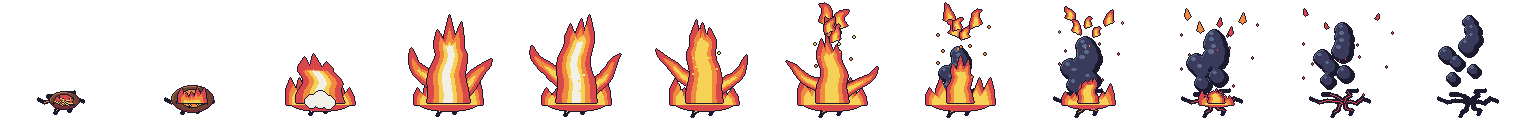
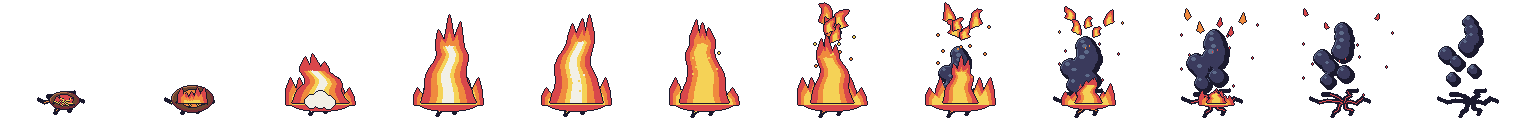
Eruption: one bonfire-shaped pillar, no curling side tongues
The side tongues curled up like horns. The column is now a single mass of
flowing flame, broad at the foot and drawing in toward a crown of licks.

Claude-Session: https://claude.ai/code/session_01J8LgTLVYzThXjNSRVhWqep

diff --git a/tools/sprites/generate.py b/tools/sprites/generate.py
@@ -1711,7 +1711,7 @@ def fire_column(c: Canvas, cx: float, base: float, height: float, hw: float, t: 
         for i in range(9):
             v = i / 8
             y = base - v * height * 0.72
-            w = w0 * (1 - 0.3 * v)
+            w = w0 * (1 - 0.5 * v ** 0.8)  # a bonfire: broad at the foot, drawing in up the flames
             wave = math.sin(v * math.pi * 2.4 - t * math.pi / 2) * hw * 0.2 * v
             left.append((cx - w + wave, y))
             right.append((cx + w + wave, y))
@@ -1764,7 +1764,7 @@ def eruption_crack_frame(k: int) -> Image.Image:
 
 def eruption_frame(k: int) -> Image.Image:
     """Eruption, a one-shot rising from the floor spot (ERUPT_BASE): the ground bulges and glows, cracks splitting,
-    then a pillar of fire bursts up out of a bonfire of wide licking tongues, flames curling off its sides; it peaks,
+    then a pillar of fire bursts up out of a bonfire of wide licking tongues, one flowing mass; it peaks,
     its crown peels away as wisps that curl up and out, the column sinks back into the ground while embers rain down,
     and smoke lingers over the glowing cracks."""
     c = Canvas(ERUPT_SIZE)
@@ -1773,7 +1773,7 @@ def eruption_frame(k: int) -> Image.Image:
     embers = [(rng.uniform(-1, 1), rng.uniform(0.4, 1.0)) for _ in range(10)]
     puffs = [(rng.uniform(-0.7, 0.7), i / 7, rng.uniform(0.8, 1.2)) for i in range(8)]
     height = (0, 0, 42, 76, 82, 78, 60, 40, 22, 10, 0, 0)[k]  # the column per frame: bulge, burst, peak, sink
-    hw = (0, 0, 24, 21, 20, 18, 16, 13, 10, 8, 0, 0)[k]
+    hw = (0, 0, 28, 27, 26, 24, 21, 17, 13, 9, 0, 0)[k]
     glow = (ORANGE, YELLOW, WHITE, YELLOW, YELLOW, YELLOW, ORANGE, ORANGE, ORANGE, RED, RED, None)[k]
     erupt_cracks(c, m, b, ERUPT_R * (0.5 + 0.03 * min(k, 5)), glow)
     if k >= 7:  # smoke billowing up off the last of it and lingering, behind the fire
@@ -1793,13 +1793,6 @@ def eruption_frame(k: int) -> Image.Image:
         c.part(E((m - 30 * g, b - 8 * g, m + 30 * g, b + 8 * g)), RED, shade=False, line=False)
         flame(c, round(m - 34 * g), round(m + 34 * g), b + 2, max(4, round(26 * g)), k, tongues=7, line=False)
     if height:
-        if 3 <= k <= 6:  # a wide tongue sweeping out and up off each side, out of step
-            for side in (1, -1):
-                lift = 0.1 * (side < 0)
-                out = 0.2 * (k - 3)  # flung further out as it goes
-                flame_tongue(c, (m + hw * 0.6, b - height * (0.16 + lift)), (m + hw * (1.5 + out), b - height * (0.3 + lift)),
-                             (m + hw * (1.9 + out * 1.5), b - height * (0.58 + lift)),
-                             (k + (side < 0) * 2) * math.pi / 2, side, wide=9 - (k - 3), mid=m)
         fire_column(c, m, b, height, hw, k, k in (2, 3, 4))
     if k == 2:  # the burst: a flash at the foot
         c.part(blobs([(m - 9, b - 1, 6), (m + 8, b, 6), (m, b - 3, 8)]), WHITE, shade=False)
